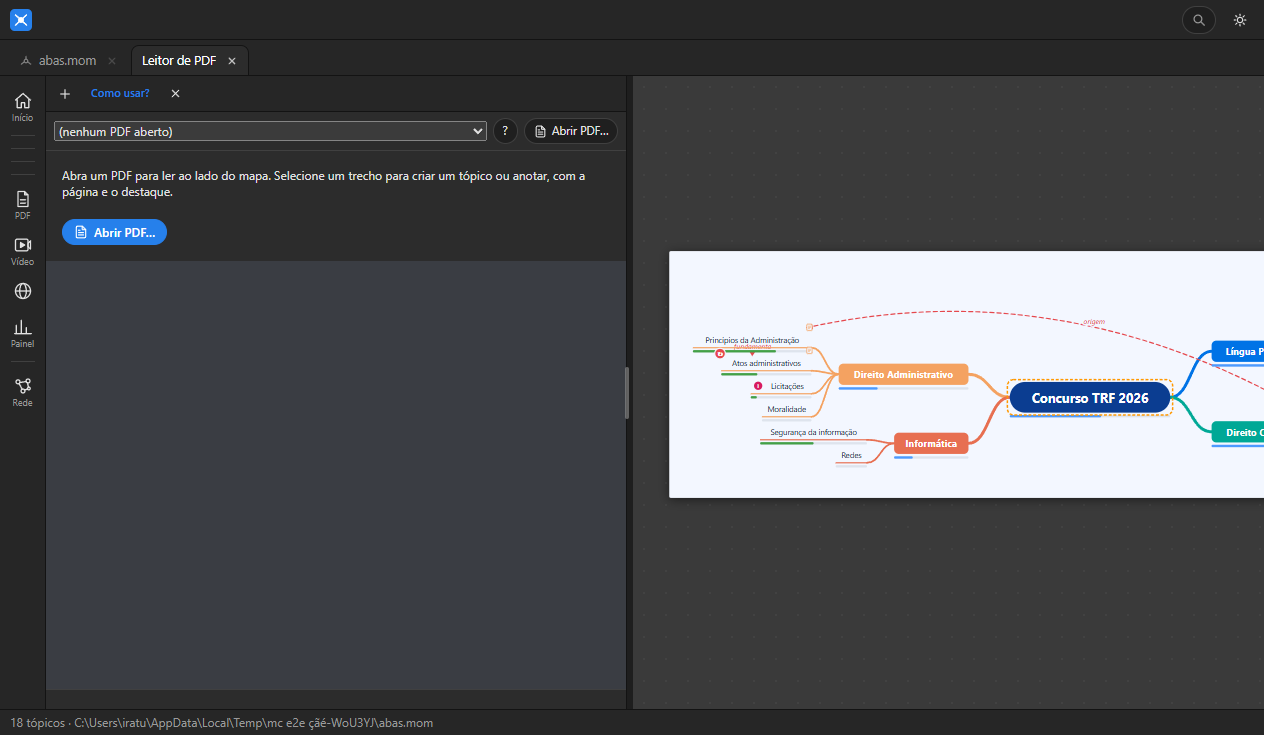
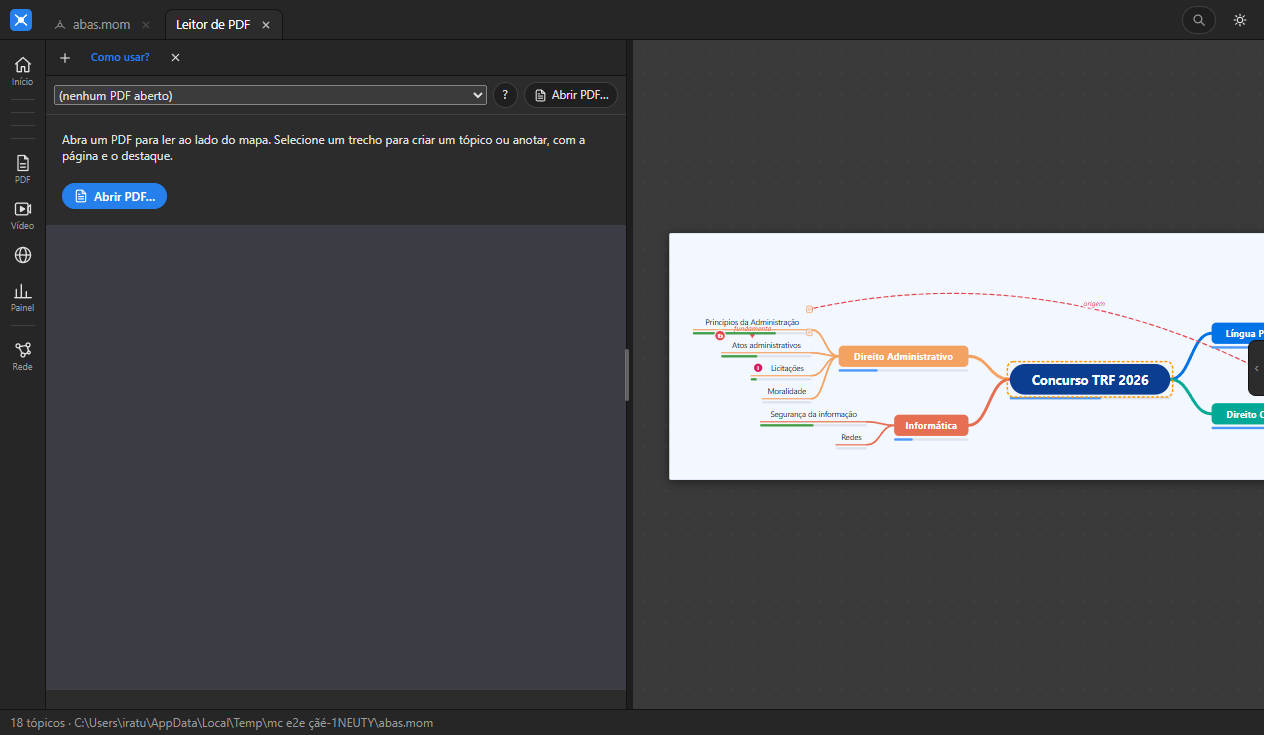
release 0.6.1: layout mais limpo, bancada e rede de rótulos
- Abas na mesma linha do logo (uma barra a menos no topo).
- Última aba de mídia fechada fecha a bancada; ícone sem texto na borda reabre o painel do mapa com uma mídia em foco.
- Faixa de abas rola em janela estreita.
- Busca informa resultados nos tópicos soltos do Mindomo.
- Rede de conhecimento: rótulo do nó selecionado não invade os vizinhos (tablet 32/32, desktop 20/20).
- Verificação: check 280 unitários; e2e 34/34 (três etapas instáveis passaram na 2ª tentativa); QA 81/81.
- Mindomo: arquivo gerado foi aberto e salvo no Mindomo com sucesso.

diff --git a/renderer/index.html b/renderer/index.html
@@ -19,7 +19,7 @@
       <div class="splash-bar"></div>
     </div>
     <div id="splashStatus" class="splash-status">Iniciando ambiente de estudos…</div>
-    <div class="splash-foot">v0.6.0 · Concursos</div>
+    <div class="splash-foot">v0.6.1 · Concursos</div>
   </div>
 </div>
 
@@ -30,6 +30,15 @@
     <div class="brand" title="MindCraft">
       <svg viewBox="0 0 24 24" width="22" height="22"><rect width="24" height="24" rx="5" fill="#2680eb"/><circle cx="12" cy="12" r="3.2" fill="#fff"/><g stroke="#fff" stroke-width="1.6" stroke-linecap="round" fill="none"><path d="M12 12 6 6.5M12 12l6-5.5M12 12l-6 5.5M12 12l6 5.5"/></g></svg>
     </div>
+    <!-- Faixa de abas: o mapa e cada leitor/vídeo/navegador aberto. Cada aba tem o seu ✕. -->
+  <nav id="tabbar" aria-label="Abas abertas">
+    <div class="tab on" id="tabMap" role="tab" tabindex="0" aria-selected="true" title="Mapa mental">
+      <svg class="tab-ico" viewBox="0 0 24 24" width="14" height="14" fill="none" stroke="currentColor" stroke-width="2" stroke-linecap="round"><circle cx="12" cy="12" r="3"/><path d="M12 9V4M9 13.5l-5 4M15 13.5l5 4"/></svg>
+      <span id="docTitle">Sem título</span><span id="dirtyDot" hidden title="Alterações não salvas"></span>
+      <button id="closeMapBtn" class="tab-x" data-act="closeMap" title="Fechar mapa (Ctrl+Shift+M)" aria-label="Fechar mapa"><svg viewBox="0 0 16 16" width="10" height="10" fill="none" stroke="currentColor" stroke-width="2" stroke-linecap="round"><line x1="3.5" y1="3.5" x2="12.5" y2="12.5"/><line x1="12.5" y1="3.5" x2="3.5" y2="12.5"/></svg></button>
+    </div>
+    <div id="tabMedia" class="tabs-media"></div>
+  </nav>
     <!-- o título do mapa vira a aba do mapa (como em um navegador) -->
     <span class="grow"></span>
     <div class="searchbox">
@@ -41,16 +50,6 @@
     </label>
     <button id="lightToggle" class="icon-btn" title="Alternar tema claro/escuro" aria-label="Alternar tema"><svg viewBox="0 0 20 20" width="16" height="16"><path d="M10 2.5v2M10 15.5v2M2.5 10h2M15.5 10h2M4.7 4.7l1.4 1.4M13.9 13.9l1.4 1.4M4.7 15.3l1.4-1.4M13.9 6.1l1.4-1.4" stroke="currentColor" stroke-width="1.5" stroke-linecap="round"/><circle cx="10" cy="10" r="3.3" fill="none" stroke="currentColor" stroke-width="1.5"/></svg></button>
   </header>
-  <!-- Faixa de abas: o mapa e cada leitor/vídeo/navegador aberto. Cada aba tem o seu ✕. -->
-  <nav id="tabbar" aria-label="Abas abertas">
-    <div class="tab on" id="tabMap" role="tab" tabindex="0" aria-selected="true" title="Mapa mental">
-      <svg class="tab-ico" viewBox="0 0 24 24" width="14" height="14" fill="none" stroke="currentColor" stroke-width="2" stroke-linecap="round"><circle cx="12" cy="12" r="3"/><path d="M12 9V4M9 13.5l-5 4M15 13.5l5 4"/></svg>
-      <span id="docTitle">Sem título</span><span id="dirtyDot" hidden title="Alterações não salvas"></span>
-      <button id="closeMapBtn" class="tab-x" data-act="closeMap" title="Fechar mapa (Ctrl+Shift+M)" aria-label="Fechar mapa"><svg viewBox="0 0 16 16" width="10" height="10" fill="none" stroke="currentColor" stroke-width="2" stroke-linecap="round"><line x1="3.5" y1="3.5" x2="12.5" y2="12.5"/><line x1="12.5" y1="3.5" x2="3.5" y2="12.5"/></svg></button>
-    </div>
-    <div id="tabMedia" class="tabs-media"></div>
-  </nav>
-
   <!-- Barra de opções (contextual ao tópico, relação ou mapa) -->
   <div id="options" class="map-only" data-context="topic">
     <!-- Modo Tópico (quando um tópico está selecionado) -->
@@ -234,6 +233,8 @@
         <div class="panel-b"><div id="outline" role="tree"></div></div>
       </section>
     </aside>
+    <!-- com uma mídia em foco o painel do mapa fica recolhido: este ícone (sem texto) o traz de volta -->
+    <button id="panelsReveal" type="button" class="panels-reveal" title="Mostrar o painel do mapa" aria-label="Mostrar o painel do mapa">‹</button>
   </div>
 
   <!-- Barra de status -->

diff --git a/test/e2e-abas.js b/test/e2e-abas.js
@@ -54,9 +54,30 @@ const SHOTS = path.join(__dirname, '..', 'evidencias', 'correcoes-v0.6.0');
     await js(`document.querySelector('#tabMedia .tab').click()`); await wait(150);
     await js(`document.querySelector('#tabMedia .tab-x').click()`); await wait(300);
     eq(await js(`document.querySelectorAll('#tabMedia .tab').length`), 0, 'nenhuma aba de mídia');
+    await wait(300);
+    eq(await js(`document.querySelector('#pdfpane').hidden`), true, 'a última aba fechada fecha a bancada sozinha');
     eq(await js(`document.body.classList.contains('focus-media')`), false, 'foco de volta ao mapa');
   });
 
+  await t('com uma mídia em foco, o ícone de borda reabre o painel do mapa (sem texto)', async () => {
+    await js(`window.MCReact.openPdf({}); true`); await wait(400);
+    eq(await js(`document.body.classList.contains('focus-media')`), true);
+    eq(await shown('#panelsReveal'), true, 'ícone de reabrir visível');
+    await js(`document.querySelector('#panelsReveal').click()`); await wait(250);
+    eq(await js(`document.body.classList.contains('focus-media')`), false, 'o ícone devolveu o foco ao mapa');
+    eq(await shown('#panels'), true, 'painel do mapa de volta');
+    await js(`window.MCReact.closePdf(); true`); await wait(250);
+  });
+
+  await t('janela estreita: a faixa de abas rola em vez de cortar as abas', async () => {
+    await js(`window.MCReact.openPdf({}); true`); await wait(300);
+    c.win.setSize(700, 760); await wait(500);
+    const r = await js(`(() => { const b = document.querySelector('#tabbar'); return { overflow: getComputedStyle(b).overflowX, scrollable: b.scrollWidth >= b.clientWidth }; })()`);
+    eq(r.overflow, 'auto', 'faixa rola na horizontal');
+    await c.shot(path.join(SHOTS, '07-abas-janela-estreita.png'));
+    c.win.setSize(1280, 800); await wait(400);
+    await js(`window.MCReact.closePdf(); true`); await wait(250);
+  });
   await t('o ✕ da aba do mapa fecha o mapa e volta à tela inicial', async () => {
     await js(`document.querySelector('#closeMapBtn').click()`);
     await c.waitFor(() => js(`!!(window.MCReact && MCReact.homeIsOpen())`), 8000);

diff --git a/renderer/graph-ui.js b/renderer/graph-ui.js
@@ -442,11 +442,12 @@ function updateLabels() {
   const near = new Set(); for (const c of [hov, selI]) if (c !== null && c !== undefined) { near.add(c); adj[c].forEach((j) => near.add(j)); }
   const isForced = (i) => near.has(i) || !!(gOpt.q && match[i]);
   const score = (i) => (i === selI ? 1e7 : 0) + (i === hov ? 1e7 : 0) + (gOpt.q && match[i] ? 1e6 : 0) + (near.has(i) ? 1e5 : 0) + (nodes[i].isRoot ? 1e3 : 0) + nodes[i].deg * 10 + (gLast.leafCount[i] || 0);
-  const items = []; nodes.forEach((n, i) => { if (vis[i] && labels[i] && onScreen(i)) items.push({ id: i, x: scr[i].x, y: scr[i].y, r: scr[i].r, text: labels[i].dataset.full, forced: isForced(i), score: score(i), relevant: n.isRoot || n.deg >= 4 }); });
+  const items = []; nodes.forEach((n, i) => { if (vis[i] && labels[i] && onScreen(i)) items.push({ id: i, x: scr[i].x, y: scr[i].y, r: scr[i].r, text: labels[i].dataset.full, forced: isForced(i), score: score(i), relevant: n.isRoot || n.deg >= 4, big: i === selI || i === hov }); });
   const obstacles = [];   // o que flutua sobre o desenho também ocupa lugar
   for (const sel of ['#gLegend', '#gZoom', '#gStat']) { const o = $(sel); if (!o || o.hidden) continue; const bb = o.getBoundingClientRect(); if (bb.width) obstacles.push({ x: bb.left - r.left - 4, y: bb.top - r.top - 4, w: bb.width + 8, h: bb.height + 8 }); }
   const budget = Math.max(10, Math.round(D.budget * (r.width * r.height) / 9000));
-  const { placed, shown } = placeLabels(items, { width: r.width, height: r.height, obstacles, mode, budget, gap: D.gap, measure: textW, fit: fitText });
+  // o rótulo do nó selecionado/apontado fica em negrito (classe "big") e é mais largo: a medição reserva 8% a mais só para ele
+  const { placed, shown } = placeLabels(items, { width: r.width, height: r.height, obstacles, mode, budget, gap: D.gap, measure: (s, it) => textW(s) * (it && it.big ? 1.08 : 1), fit: fitText });
   labels.forEach((el0, i) => {
     if (!el0) return;
     const p = placed.get(i);

diff --git a/renderer/style.css b/renderer/style.css
@@ -661,7 +661,7 @@ body.panels-drawer #panelsSplit, body.panels-auto-hidden #panelsSplit { display:
 }
 
 /* ---------- Faixa de abas (0.6.0): o mapa e as mídias abertas, como em um navegador ---------- */
-#tabbar { display: flex; align-items: flex-end; gap: 2px; height: 36px; padding: 6px 8px 0; background: var(--bg-bar); border-bottom: 1px solid var(--line); overflow: hidden; flex-shrink: 0; }
+#tabbar { display: flex; align-items: flex-end; gap: 2px; flex: 1; min-width: 0; height: 100%; padding-top: 6px; overflow-x: auto; scrollbar-width: none; }   /* faixa de abas na mesma linha do logo, como em um navegador */
 .tabs-media { display: flex; gap: 2px; min-width: 0; overflow: hidden; }
 .tab { display: flex; align-items: center; gap: 6px; height: 30px; max-width: 240px; min-width: 0; padding: 0 6px 0 10px; border: 1px solid transparent; border-bottom: 0; border-radius: 8px 8px 0 0; background: transparent; color: var(--text-dim); font: inherit; font-size: 12.5px; cursor: pointer; user-select: none; flex-shrink: 0; }
 .tab span { overflow: hidden; text-overflow: ellipsis; white-space: nowrap; min-width: 0; }
@@ -675,3 +675,8 @@ body.panels-drawer #panelsSplit, body.panels-auto-hidden #panelsSplit { display:
 body.focus-media .map-only { display: none !important; }
 body.focus-media .right-panel { display: none !important; }
 .media-tabs-list { display: none !important; }
+
+/* ícone para reabrir o painel do mapa quando uma mídia está em foco (sem texto: só a seta na borda direita) */
+.panels-reveal { display: none; position: fixed; right: 0; top: 50%; transform: translateY(-50%); z-index: 20; width: 16px; height: 56px; padding: 0; border: 1px solid var(--line); border-right: 0; border-radius: 8px 0 0 8px; background: var(--bg-panel); color: var(--text-dim); font-size: 14px; cursor: pointer; }
+.panels-reveal:hover { color: var(--text-strong); background: var(--bg-hover); }
+body.focus-media .panels-reveal { display: block; }

diff --git a/renderer/renderer.js b/renderer/renderer.js
@@ -442,7 +442,12 @@ $('#search').addEventListener('input', (e) => {
   hitList = [];
   if (q) map.walk((n) => { if (n.title.toLowerCase().includes(q) || (n.notes || '').toLowerCase().includes(q)) hitList.push(n.id); });
   hits = q ? new Set(hitList) : null; hitIdx = -1;
-  render(); setStatus(q ? `${hitList.length} resultado(s) — Enter vai para o próximo` : '');
+  render();
+  // tópicos soltos do Mindomo não entram na navegação da árvore; a barra de status diz quantos casam com a busca
+  let soltos = 0;
+  if (q) for (const f of map.meta._momFloating || []) (function walk(n) { if (n.title.toLowerCase().includes(q) || (n.notes || '').toLowerCase().includes(q)) soltos++; n.children.forEach(walk); })(f.node);
+  const extra = soltos ? ` · ${soltos} em tópicos soltos à direita (Editar → Trazer tópicos soltos)` : '';
+  setStatus(q ? `${hitList.length} resultado(s) — Enter vai para o próximo${extra}` : '');
 });
 $('#search').addEventListener('keydown', (e) => {
   if (e.key === 'Escape') { e.target.value = ''; e.target.dispatchEvent(new Event('input')); e.target.blur(); }

diff --git a/renderer/react/MediaPane.jsx b/renderer/react/MediaPane.jsx
@@ -176,6 +176,12 @@ export function MediaPane({ initialTab = 'pdf', pdfOpts = {}, onClose }) {
     };
   }, [tabs, closeTab]);
   useEffect(() => () => document.dispatchEvent(new CustomEvent('mc:media-tabs', { detail: { tabs: [], active: null } })), []);
+  // a última aba fechada fecha a bancada (sem painel vazio ocupando a tela); adiado para não desmontar durante o próprio render
+  const hadTab = useRef(tabs.length > 0);
+  useEffect(() => {
+    if (tabs.length) { hadTab.current = true; return; }
+    if (hadTab.current && onClose) { hadTab.current = false; setTimeout(() => onClose(), 0); }
+  }, [tabs]);
 
   const activeTab = tabs.find((t) => t.id === activeTabId);
   const mapPdfs = (map && map.meta && map.meta.pdfs) || [];

diff --git a/core/graph-labels.js b/core/graph-labels.js
@@ -50,7 +50,7 @@ function placeLabels(items, o) {
     const forced = !!it.forced;
     const allowed = mode === 'all' ? true : mode === 'none' ? forced : mode === 'relevant' ? (forced || !!it.relevant) : (forced || shown < budget);
     if (!allowed) continue;
-    const text = fit(it.text, forced ? 300 : 170), w = measure(text) + 6, off = it.r + 4;
+    const text = fit(it.text, forced ? 300 : 170), w = measure(text, it) + 6, off = it.r + 4;
     const cands = [
       { x: it.x - w / 2, y: it.y + off, anchor: 'middle', ox: 0, oy: off + ROW_H / 2 },
       { x: it.x + off, y: it.y - ROW_H / 2, anchor: 'start', ox: off, oy: 0 },

diff --git a/renderer/context-ui.js b/renderer/context-ui.js
@@ -320,6 +320,8 @@ function initContextUIEvents() {
   document.addEventListener('mc:media-focus', () => setWorkspaceFocus('media'));
   const tabMap = $('#tabMap');
   if (tabMap) tabMap.addEventListener('click', (e) => { if (!e.target.closest('#closeMapBtn')) setWorkspaceFocus('map'); });
+  const reveal = $('#panelsReveal');
+  if (reveal) reveal.addEventListener('click', () => setWorkspaceFocus('map'));
   const stageEl = $('#stage');
   if (stageEl) stageEl.addEventListener('mousedown', () => { if (workspaceFocus !== 'map') setWorkspaceFocus('map'); }, true);
 

diff --git a/CHANGELOG.md b/CHANGELOG.md
@@ -2,6 +2,13 @@
 
 Formato livre, mais recente primeiro. Detalhes de testes: `evidencias/RESULTADOS.md`.
 
+## 0.6.1
+- **Layout mais limpo:** as abas ficam na mesma linha do logo (uma barra a menos no topo).
+- **Bancada de mídia:** ao fechar a última aba, a bancada fecha sozinha; com uma mídia em foco, um ícone sem texto na borda direita reabre o painel do mapa.
+- **Janela estreita:** a faixa de abas rola na horizontal em vez de cortar as abas.
+- **Busca:** a barra de status informa quantos resultados estão nos tópicos soltos do Mindomo.
+- **Rede de conhecimento:** o rótulo do nó selecionado (em negrito) não invade os vizinhos.
+
 ## 0.6.0
 - **Abas do espaço de trabalho**, como em um navegador: a aba do mapa (com ✕ para fechar) e uma aba para cada PDF, vídeo ou navegador aberto (com ✕ em cada uma).
 - **Foco:** com uma mídia ativa, as ações do mapa e o painel da direita ficam ocultos; o mapa continua visível e um clique nele (ou na aba do mapa) devolve o foco ao mapa.
